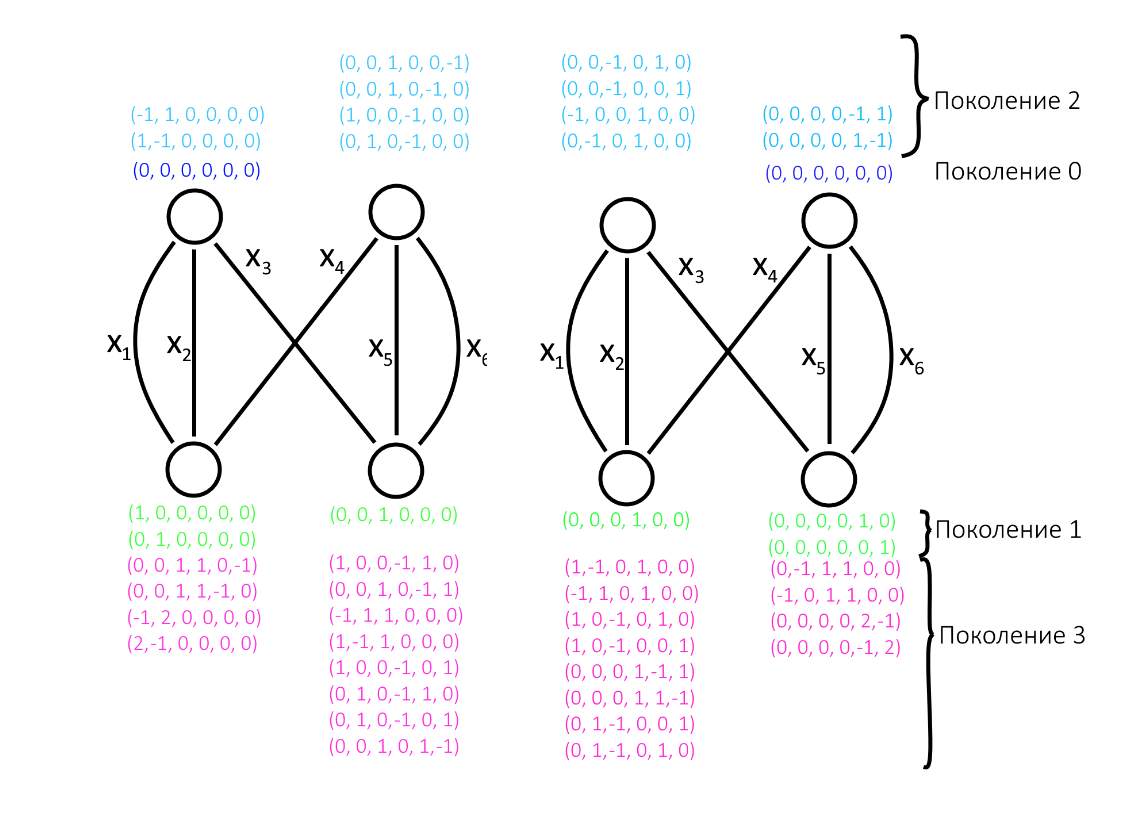
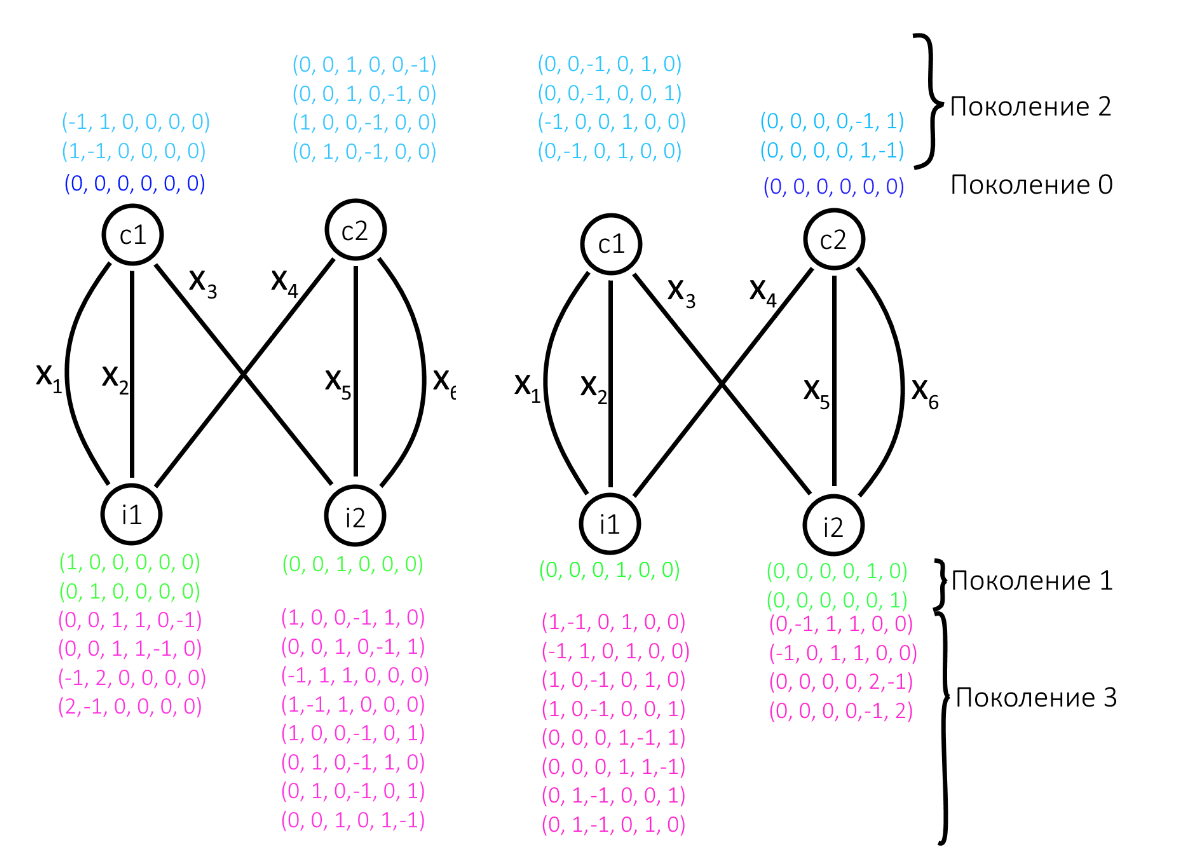
Improve graph building algorithm description

Changed region(s): [[0.0306, 0.0302, 0.9484, 0.965], [0.3671, 0.2413, 0.3977, 0.2714]]

diff --git a/arutyunov - thesis.tex b/arutyunov - thesis.tex
@@ -232,19 +232,33 @@ LDPC-коды вошли в стандарт цифорвого спутнико
 
 \textbf{Алгоритм 2.}
 
-Для того, чтобы построить граф с заданным обхватом $t$, обозначим сдвиги на дугах как $x_1$, $x_2$, ..., $x_e$. Сделаем $t/2$ итераций алгоритма поиска циклов. Если алгоритм нашёл цикл, то выбранная структура компоненты не позволяет построить граф с заданным обхватом, необходимо увеличить количенство проверочных вершин.
+На вход алгоритм получает число $t$ ~--- требуемый обхват графа и граф с регулярными структурами, заданный тройкой $\langle c, i, f \rangle$, где односительные сдвиги дуг, задаваемые $f$ неизвестны и обозначены $x_1, ..., x_e$.  
 
-Множество всех меток, полученных в результате работы алгоритма, разделяем по поколению и вершине на подмножества $U(v, d)$, где $v$ пробегает множество вершин, а $d$ ~--- множество поколений. По полученным подмножествам составляем систему неравенств вида $U(v, d)[i] \neq U(v,d)[j] \forall i \neq j; v; d$.
-
-Находим решение полученной системы неравенств, строим граф со сдвигами дуг равными значениям полученного решения. В данном графе размер минимального цикла будет больше или равен $t$. 
+\begin{itemize}
+\item Длину максимального допустимого цикла $t - 2$ обозначим $c$.
+\item Инициализируем множество $I$.
+\item Для каждой проверочной вершины $c$ компоненты графа:
+\begin{itemize}
+  \item Выполним алгоритма поиска циклов, с начальной вершиной $c$ и заданным максимальным допустимым циклом $c$.
+  \item Если алгоритм нашёл цикл, то для заданной структуры компонентов нельзя построить граф с заданным обхватом.
+  \item Добавляем в систему $I$ все неравенств вида $a \neq b$, где $a$ и $b$ ~--- это все различные метки на вершине $v$ в поколении $g$ $\forall v, g$
+\end{itemize}
+\item Составляем систему из всех неравенств,содержащихся в множестве $I$.
+\item Находим решение $\alpha_1, ..., \alpha_e$ получившейся системы неравенств.
+\item Возвращаем граф, заданный тройкой $\langle c, i, f \rangle$, где односительные сдвиги дуг, задаваемые $f$ имеют значения $\alpha_1, ..., \alpha_e$.
+\end{itemize}
 
 \textbf{Теорема.}
 
-В результате карректного завершения работы алгоритма 2 получается граф с обхватом больше или равным требуемому.
+В результате корректного завершения работы алгоритма 2 получается граф с обхватом больше или равным требуемому.
 
 \textbf{Доказательство.}
 
-Допустим, мы нашли решение системы неравенств, равное $(\alpha_1, \alpha_2, ..., \alpha_e)$. Построим граф по этому решению. Делаем $t/2$ итераций алгоритма поиска циклов. Так как система неравенств гарантирует, что метки в одной вершине и одном поколении отличаются, алгоритм не завершается. Следовательно обхват графа больше или равен $t$.
+Алгоритм 2 в результате работы возвращает граф, заданный тройкой $\langle c, i, f \rangle$, где односительные сдвиги дуг, задаваемые $f$ имеют значения $\alpha_1, ..., \alpha_e$.
+
+Для всех проверочных вершин компоненты выполним алгоритм 1 для полученного графа, передав ему $t - 2$, как длину максимального искомого цикла. 
+
+Предположим, что алгоритм 1 завершил работу с сообщением о том, что обнаружен цикл, так кок пометки на вершине $v$ в поколении $g$ совпали. Однако система неравенств, составленная алгоритмом 2 требует, чтобы все пометки на одной вершине в одном поколении различались. Возникает противоречие, следовательно в графе нет циклов с длиной меньше или равной $t - 2$, следовательно обхват графа равен $t$.
 
 \qed
 
@@ -259,9 +273,41 @@ LDPC-коды вошли в стандарт цифорвого спутнико
   \label{image:6}
 \end{figure}
 
-На рис. \ref{image:6} изображён первый этап работы алгоритма 2 для графа с регулярными структурами, заданного тройкой $ \langle 2; 2; f\rangle $, где $ f(1) = \{ (x1, 1),\\ (x2, 1), (x3, 2) \} $, а $f(2) = \{ (x4, 1), (x5, 2), (x6, 2) \}$. Выполняется четыре итерации поиска циклов в общем виде для первой и второй проверочных вершин. Алгоритм не нашёл одинаковых кортежей в множествах пометок с одинаковой вершиной и поколением, значит, есть смысл составлять систему неравенств и искать её решение.
+На рис. \ref{image:6} изображены этапы работы алгоритма 2, связанные с поиском циклов с неизвестными относительынми сдивагми дуг, для графа с регулярными структурами, заданного тройкой $ \langle 2; 2; f\rangle $, где $ f(1) = \{ (x1, 1),\\ (x2, 1), (x3, 2) \} $, а $f(2) = \{ (x4, 1), (x5, 2), (x6, 2) \}$ и требуемым обхватом 8. Выполняется четыре итерации поиска циклов в общем виде для первой и второй проверочных вершин. Алгоритм не нашёл одинаковых кортежей в множествах пометок с одинаковой вершиной и поколением, значит, алгоритм продолжит поиск графа с обхватом 8.
 
-Система неравенств (\ref{eqs:1}) построена из множеств меток, полученных в результате работы первого этапа алгоритма. Неравенства упрощены, повторения убраны.
+Система неравенств (\ref{eqs:0}), получена для меток поколения $3$ на вершине $i2$, при поиске циклов, с начальной вершиной $c2$. Система \ref{eqs:1} ~--- она же, но записанная в кортежной форме.
+
+\begin{equation}
+    \centering
+    \left\{
+        \begin{array}{ll}
+            x_1 \neq x_2\\
+            -x_2 + x_3 + x_4 \neq 2 x_5 - x_6\\
+            -x_2 + x_3 + x_4 \neq -x_5 + 2 x_6\\
+            -x_1 + x_3 + x_4 \neq 2 x_5 - x_6\\
+            -x_1 + x_3 + x_4 \neq -x_5 + 2 x_6\\
+            x_5 \neq x_6\\
+        \end{array}
+    \right.
+    \label{eqs:0}
+\end{equation}
+
+\begin{equation}
+    \centering
+    \left\{
+        \begin{array}{ll}
+            (\ \ 1,-1,\ \ 0,\ \ 0,\ \ 0,\ \ 0)\\
+            (\ \ 0,-1,\ \ 1,\ \ 1,-2,\ \ 1)\\
+            (\ \ 0,-1,\ \ 1,\ \ 1,\ \ 1,-2)\\
+            (-1,\ \ 0,\ \ 1,\ \ 1,-2,\ \ 1)\\
+            (-1,\ \ 0,\ \ 1,\ \ 1,\ \ 1,-2)\\
+            (\ \ 0,\ \ 0,\ \ 0,\ \ 0,\ \ 1,-1)\\
+        \end{array}
+    \right.
+    \label{eqs:1}
+\end{equation}
+
+Система неравенств (\ref{eqs:2}) получена для всех меток всех поколений для всех начальных вершин поиска циклов. Неравенства упрощены, повторения убраны.
 
 \begin{equation}
   \centering
@@ -285,10 +331,10 @@ LDPC-коды вошли в стандарт цифорвого спутнико
         (0,\ \ 1,-1,-1,\ \ 2,-1)\\
       \end{array}
     \right.
-  \label{eqs:1}
+  \label{eqs:2}
 \end{equation}
 
-Примером решения этой системы неравенств является кортеж\\ $(0, 1, -2, -1, 2, 0)$. Если скалярно умножить его на каждый кортеж неравнества, получится число отличное от нуля. Граф, заданный этим решением изображён на рис. \ref{image:7}.
+Примером решения этой системы неравенств является кортеж $(0, 1, -2, -1, 2, 0)$. Если скалярно умножить его на каждый кортеж неравнества, получится число отличное от нуля. Граф, заданный этим решением изображён на рис. \ref{image:7}.
 
 \begin{figure}[H]
   \centering
@@ -369,7 +415,7 @@ LDPC-коды вошли в стандарт цифорвого спутнико
 
 \subsection{Использование в алгоритме построения графа с заданным обхватом}
 
-Применим алгоритм 2, используя алгоритм поиска циклов на метаграфе, вместо обычного алгоритма поиска циклов, обозначив сдвиги дуг $x_1, ..., x_e$, а числа, поставленные им в соответствие ~--- $y_1, ..., y_e$. В результате получится система неравенств вида (\ref{eqs:2}).
+Применим алгоритм 2, используя алгоритм поиска циклов на метаграфе, вместо обычного алгоритма поиска циклов, обозначив сдвиги дуг $x_1, ..., x_e$, а числа, поставленные им в соответствие ~--- $y_1, ..., y_e$. В результате получится система неравенств вида (\ref{eqs:3}).
 
 \begin{equation}
   \left\{
@@ -389,7 +435,7 @@ LDPC-коды вошли в стандарт цифорвого спутнико
         \right.\\
     \end{array}
   \right.
-  \label{eqs:2}
+  \label{eqs:3}
 \end{equation}
 
 Устройство системы неравенств позволяет заранее выбрать числа, поставленные в соответствие дугам и избавить от части неравенств ещё на этапе генерации системы. Хорошими вариантами значений для таких чисел являются числа из последовательности Сидона \cite{sidon}.
